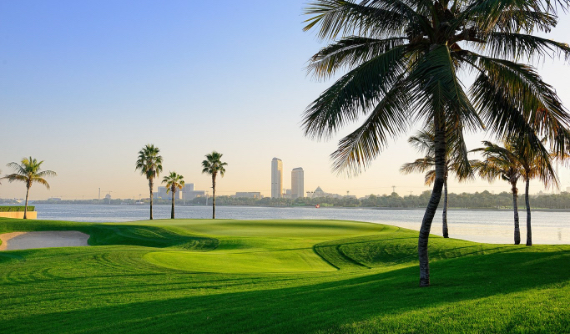
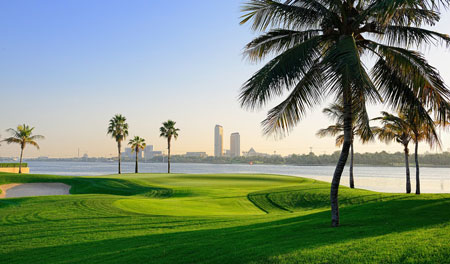
Proccess 11.0

diff --git a/src/index.html b/src/index.html
@@ -178,7 +178,10 @@
                         <div class="tile">
                             <div class="tile-wrapper">
                                 <div class="tile-front">
-                                    <img src="assets/images/object-1.jpg">
+                                    <picture>
+                                        <source type="image/jpeg" srcset="assets/images/object-1@2x.jpg" media="(max-width: 575px)">
+                                        <img src="assets/images/object-1.jpg">
+                                    </picture>
                                 </div>
                                 <div class="tile-back">
                                     <h5 class="mb-1">AYKON City</h5>
@@ -311,13 +314,13 @@
                             </a>
                         </div>
                         <div>
-                            <a href="assets/images/feature-4.jpg">
-                                <img src="assets/images/feature-4.jpg">
+                            <a href="assets/images/feature-5.jpg">
+                                <img src="assets/images/feature-5.jpg">
                             </a>
                         </div>
                         <div>
-                            <a href="assets/images/feature-1.jpg">
-                                <img src="assets/images/feature-1.jpg">
+                            <a href="assets/images/feature-6.jpg">
+                                <img src="assets/images/feature-6.jpg">
                             </a>
                         </div>
                     </div>
@@ -337,8 +340,14 @@
                 </div>
                 <div class="col-sm-6">
                     <div class="golf-images" id="lightgallery-golf">
-                        <img src="assets/images/golf-1.jpg" data-aos="fade-up" data-aos-delay="500">
-                        <img src="assets/images/golf-2.jpg" data-aos="fade-up">
+                        <picture>
+                            <source type="image/jpeg" srcset="assets/images/golf-1@sm.jpg" media="(max-width: 575px)">
+                            <img src="assets/images/golf-1.jpg" data-aos="fade-up" data-aos-delay="500" class="mb-2 mb-lg-0">
+                        </picture>
+                        <picture>
+                            <source type="image/jpeg" srcset="assets/images/golf-2@sm.jpg" media="(max-width: 575px)">
+                            <img src="assets/images/golf-2.jpg" data-aos="fade-up" data-aos-delay="500">
+                        </picture>
                     </div>
                 </div>
             </div>

diff --git a/src/css/style.css b/src/css/style.css
@@ -257,11 +257,11 @@ section.golf { padding-bottom: 200px; }
 
 section.golf .golf-images { position: relative; }
 
-section.golf .golf-images img { width: 100%; position: absolute; }
+section.golf .golf-images picture { width: 100%; position: absolute; }
 
-section.golf .golf-images img:nth-child(1) { top: 100px; right: 0; z-index: 2; }
+section.golf .golf-images picture:nth-child(1) { top: 100px; right: 0; z-index: 2; }
 
-section.golf .golf-images img:nth-child(2) { top: 0px; right: -100px; z-index: 1; }
+section.golf .golf-images picture:nth-child(2) { top: 0px; right: -100px; z-index: 1; }
 
 section.golf .caption:after { content: ''; position: absolute; bottom: -30px; right: 0; width: 100px; height: 10px; border-radius: 2px; border: 1px solid #E8E8E8; border-top: none; border-right: none; }
 
@@ -378,7 +378,7 @@ ul.rect li:before { content: ''; position: absolute; top: 7px; left: -15px; widt
   body .box .box-features:after { font-size: 70px; }
   body .box p { font-size: 0.9em; }
   body .property .property-images { width: 100%; }
-  section.golf .golf-images img { position: unset; margin-bottom: 30px; }
+  section.golf .golf-images picture { position: unset; margin-bottom: 30px; }
   section.objects { padding-top: 75px; }
   section.objects .objects-tiles { grid-template-columns: 1fr 1fr; grid-template-rows: 1fr 1fr 1fr; }
   section.moved-top { margin-bottom: 0; }

diff --git a/src/scss/style.scss b/src/scss/style.scss
@@ -856,7 +856,7 @@ section {
     .golf-images {
       position: relative;
 
-      img {
+      picture {
         width: 100%;
         position: absolute;
 

diff --git a/src/scss/_responsive.scss b/src/scss/_responsive.scss
@@ -72,7 +72,7 @@
 
 			.golf-images {
 
-				img {
+				picture {
 					position: unset;
 					margin-bottom: 30px;
 				}
